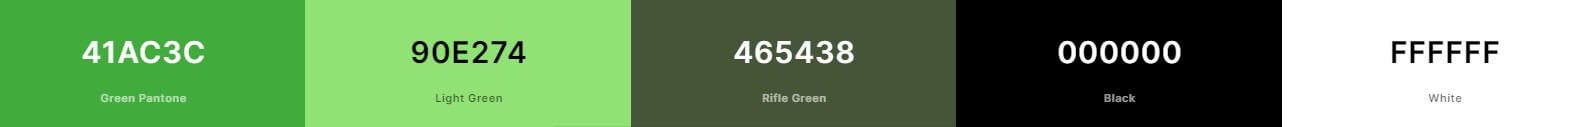
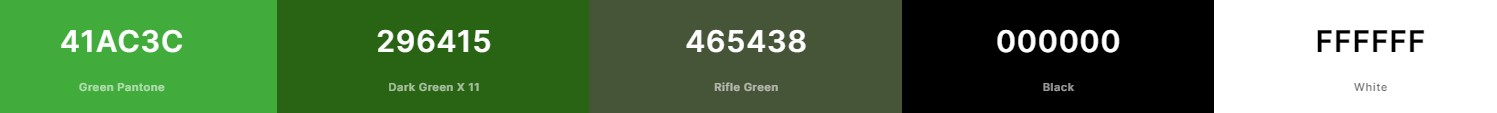
update colour section after changes

diff --git a/docs/README.md b/docs/README.md
@@ -91,7 +91,7 @@ The footer of the page will just contain the copyright information.
 
 41AC3C (Green Pantone) is used for the main header of the page and the backs of the cards in the game section. It is also used for the button text both on the main page and the custom 404 page. 
 
-90E274 (Light green) is used for the subheading. 
+ 296415(Dark green) is used for the subheading. 
 
 465438 (Rifle green) is used to contrast the brighter greens. It is used for text throughout the project. 
 
